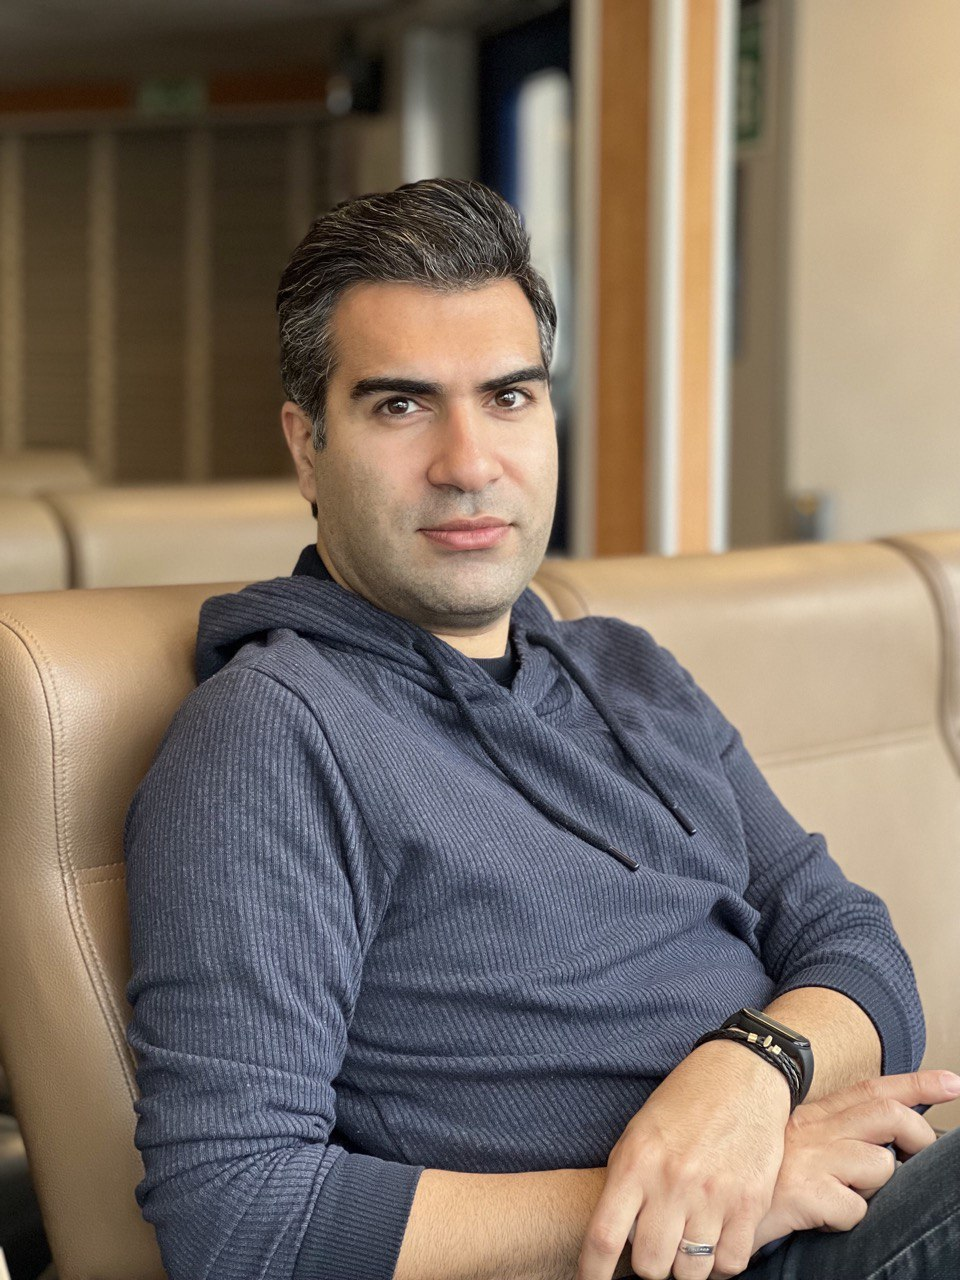
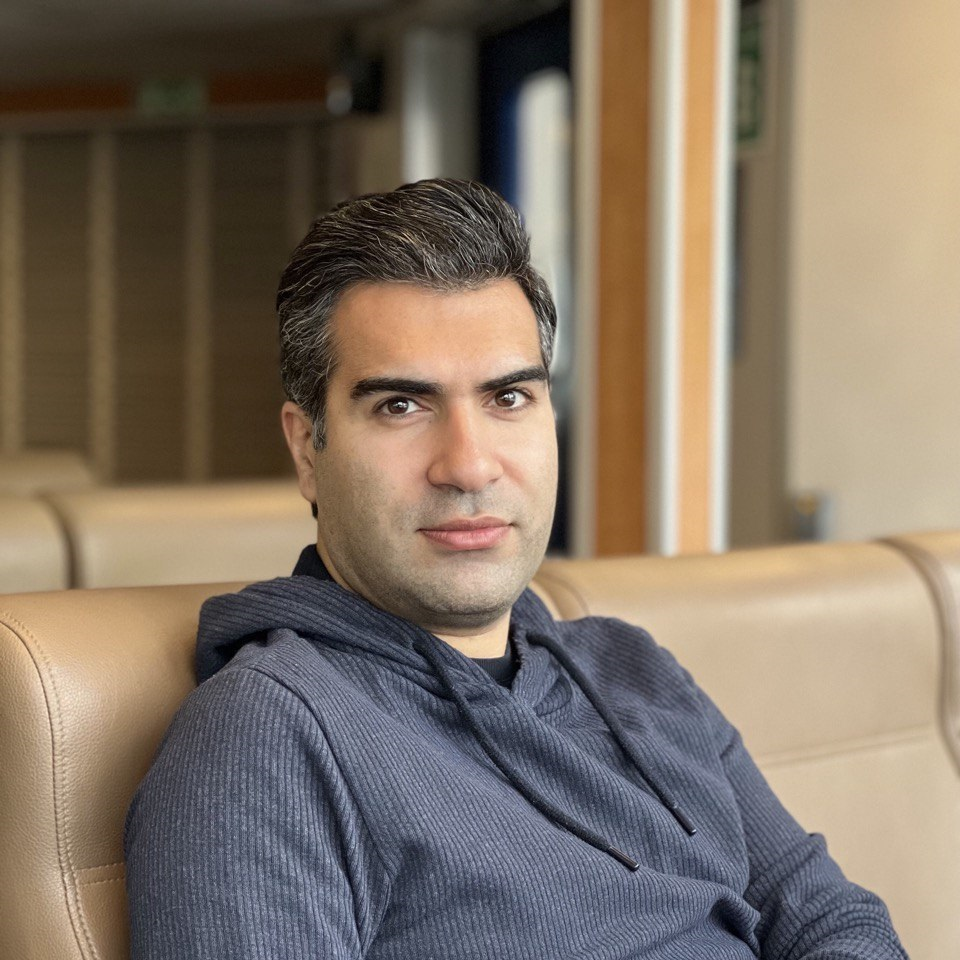
added some responsive rules

diff --git a/resume/resume.html b/resume/resume.html
@@ -18,7 +18,7 @@
             <div class="sidebar col-lg-4 col-md-4 col-sm-12">
                 <div class="container">
                     <div class="avatar">
-                        <img src="./image/avatar.jpg" alt="avatar" />
+                        <img src="./image/avatar.jpg" alt="avatar" class="responsive-avatar" />
                     </div>
                     <div class="general-info">
                         <div class="about-me">
@@ -134,6 +134,74 @@
                         </p>
                     </div>
 
+                    <!-- START SKILLS -->
+                    <h4 class="skills-title">skills</h4>
+                    <hr>
+                    <div class="skills">
+                        <div class="skill">
+                            <div class="skill-title bold">HTML</div>
+                            <div class="skill-progress">
+                                <div class="bar" style="width: 100%; background-color: forestgreen">
+                                    <div class="skill-quantity">1 year</div>
+                                </div>
+                            </div>
+                        </div>
+
+                        <div class="skill">
+                            <div class="skill-title bold">CSS</div>
+                            <div class="skill-progress">
+                                <div class="bar" style="width: 75%; background-color: royalblue">
+                                    <div class="skill-quantity">9 months</div>
+                                </div>
+                            </div>
+                        </div>
+
+                        <div class="skill">
+                            <div class="skill-title bold">Bootstrap</div>
+                            <div class="skill-progress">
+                                <div class="bar" style="width: 75%; background-color: royalblue">
+                                    <div class="skill-quantity">9 months</div>
+                                </div>
+                            </div>
+                        </div>
+
+                        <div class="skill">
+                            <div class="skill-title bold">Responsive Web Design</div>
+                            <div class="skill-progress">
+                                <div class="bar" style="width: 50%; background-color: rebeccapurple">
+                                    <div class="skill-quantity">6 months</div>
+                                </div>
+                            </div>
+                        </div>
+
+                        <div class="skill">
+                            <div class="skill-title bold">JavaScript</div>
+                            <div class="skill-progress">
+                                <div class="bar" style="width: 50%; background-color: rebeccapurple">
+                                    <div class="skill-quantity">6 months</div>
+                                </div>
+                            </div>
+                        </div>
+
+                        <div class="skill">
+                            <div class="skill-title bold">Git</div>
+                            <div class="skill-progress">
+                                <div class="bar" style="width: 50%; background-color: rebeccapurple">
+                                    <div class="skill-quantity">6 months</div>
+                                </div>
+                            </div>
+                        </div>
+
+                        <div class="skill">
+                            <div class="skill-title bold">React</div>
+                            <div class="skill-progress">
+                                <div class="bar" style="width: 20%; background-color: lightskyblue">
+                                    <div class="skill-quantity">2 months</div>
+                                </div>
+                            </div>
+                        </div>
+                    </div>
+                    <!-- END SKILLS -->
 
                     <!-- START Certificates -->
                     <h4 class="certificate-title">certificates</h4>
@@ -261,75 +329,6 @@
 
                     </div>
                     <!-- END CERTIFICATES -->
-
-                    <!-- START SKILLS -->
-                    <h4 class="skills-title">skills</h4>
-                    <hr>
-                    <div class="skills">
-                        <div class="skill">
-                            <div class="skill-title bold">HTML</div>
-                            <div class="skill-progress">
-                                <div class="bar" style="width: 100%; background-color: forestgreen">
-                                    <div class="skill-quantity">About 1 year</div>
-                                </div>
-                            </div>
-                        </div>
-
-                        <div class="skill">
-                            <div class="skill-title bold">CSS</div>
-                            <div class="skill-progress">
-                                <div class="bar" style="width: 75%; background-color: royalblue">
-                                    <div class="skill-quantity">About 9 months</div>
-                                </div>
-                            </div>
-                        </div>
-
-                        <div class="skill">
-                            <div class="skill-title bold">Bootstrap</div>
-                            <div class="skill-progress">
-                                <div class="bar" style="width: 75%; background-color: royalblue">
-                                    <div class="skill-quantity">About 9 months</div>
-                                </div>
-                            </div>
-                        </div>
-
-                        <div class="skill">
-                            <div class="skill-title bold">Responsive Web Design</div>
-                            <div class="skill-progress">
-                                <div class="bar" style="width: 50%; background-color: rebeccapurple">
-                                    <div class="skill-quantity">About 6 months</div>
-                                </div>
-                            </div>
-                        </div>
-
-                        <div class="skill">
-                            <div class="skill-title bold">JavaScript</div>
-                            <div class="skill-progress">
-                                <div class="bar" style="width: 50%; background-color: rebeccapurple">
-                                    <div class="skill-quantity">About 6 months</div>
-                                </div>
-                            </div>
-                        </div>
-
-                        <div class="skill">
-                            <div class="skill-title bold">Git</div>
-                            <div class="skill-progress">
-                                <div class="bar" style="width: 50%; background-color: rebeccapurple">
-                                    <div class="skill-quantity">About 6 months</div>
-                                </div>
-                            </div>
-                        </div>
-
-                        <div class="skill">
-                            <div class="skill-title bold">React</div>
-                            <div class="skill-progress">
-                                <div class="bar" style="width: 20%; background-color: lightskyblue">
-                                    <div class="skill-quantity">About 2 months</div>
-                                </div>
-                            </div>
-                        </div>
-                    </div>
-                    <!-- END SKILLS -->
 
                     <!-- START SKILL BADGE -->
                     <h4 class="skill-badge-title">linkedin skill badge</h4>

diff --git a/resume/css/style-resume.css b/resume/css/style-resume.css
@@ -59,6 +59,11 @@ a {
     box-shadow: 10px 10px 8px #888888;
 }
 
+.responsive-avatar {
+    width: 100%;
+    height: auto;
+}
+
 h6 {
     font-size: 1.25rem;
     margin-bottom: 15px;
@@ -92,10 +97,6 @@ h6 {
 
 .pegah {
     margin-bottom: 25px;
-}
-
-.language {
-    margin-bottom: 100px;
 }
 
 .language p {
@@ -212,4 +213,13 @@ p.edu-description {
 
 .footer {
     height: 100px;
+}
+
+
+/* MEDIA QUERIES */
+
+@media screen and (max-width: 767px) {
+    .responsive-avatar {
+        display: none;
+    }
 }
